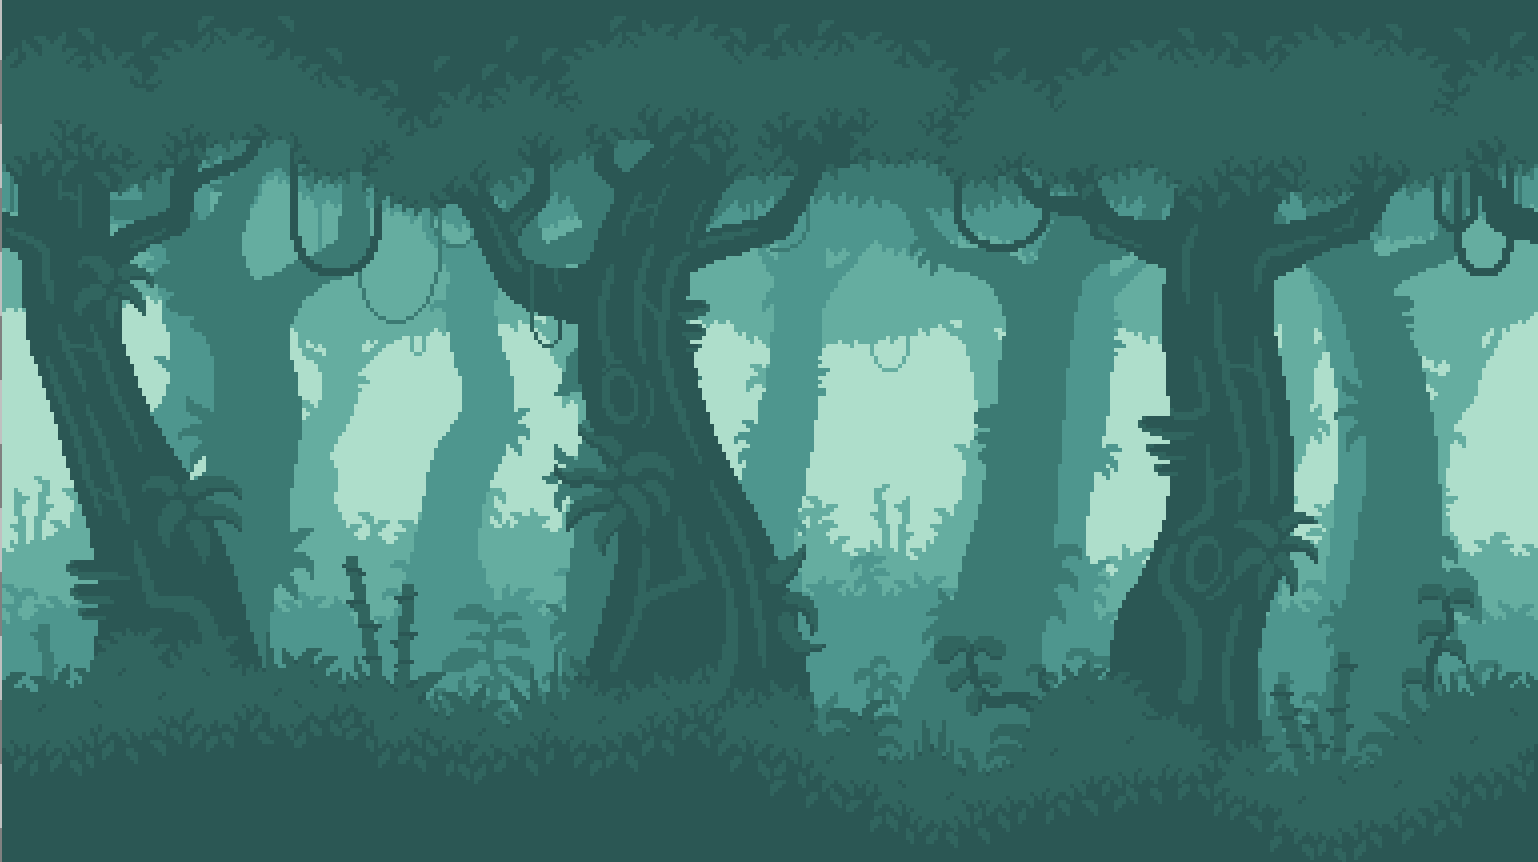
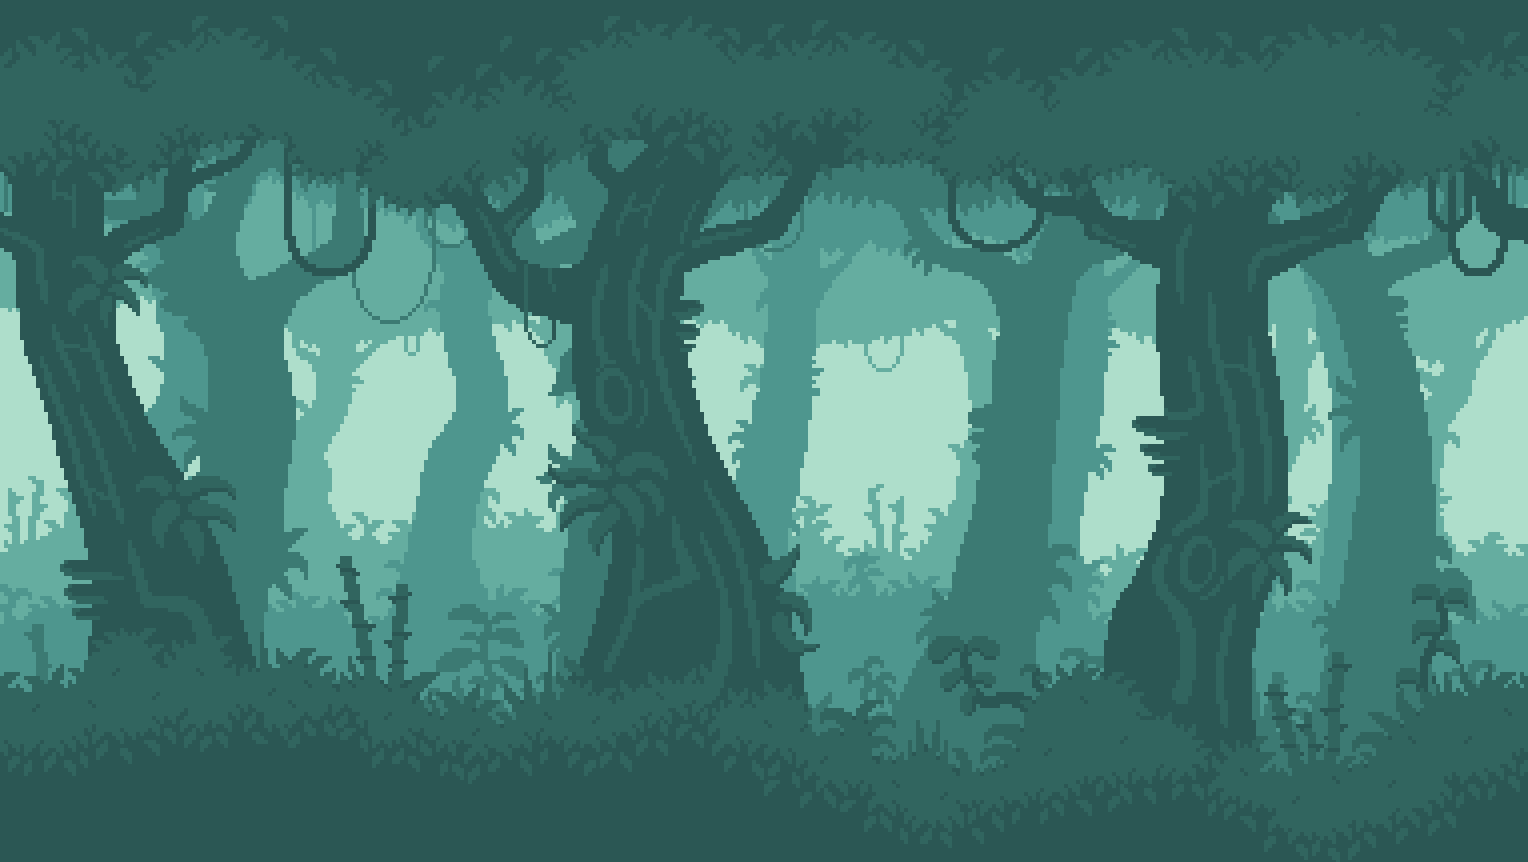
Background fix

diff --git a/src/components/HomeComponent.tsx b/src/components/HomeComponent.tsx
@@ -3,7 +3,7 @@ import React from 'react';
 import GameComponent from './GameComponent';
 
 const sizes = {
-  width: 1150,
+  width: 1140,
   height: 600
 };
 
@@ -62,7 +62,7 @@ class GameScene extends Phaser.Scene
         update(){
           const {up, down} = this.cursor;
 
-          this.background.tilePositionX += 0.8;
+          this.background.tilePositionX += 1;
 
           // this.target.setVelocityX(-this.playerSpeed);
           this.enemyMove(this.target, this.playerSpeed);

diff --git a/index.html b/index.html
@@ -2,7 +2,7 @@
 <html lang="en">
   <head>
     <meta charset="UTF-8" />
-    <link rel="icon" type="image/svg+xml" href="public/images/ship.png" />
+    <link rel="icon" type="image/svg+xml" href="/images/ship.png" />
     <meta name="viewport" content="width=device-width, initial-scale=1.0" />
     <title>Space Impact</title>
   </head>
